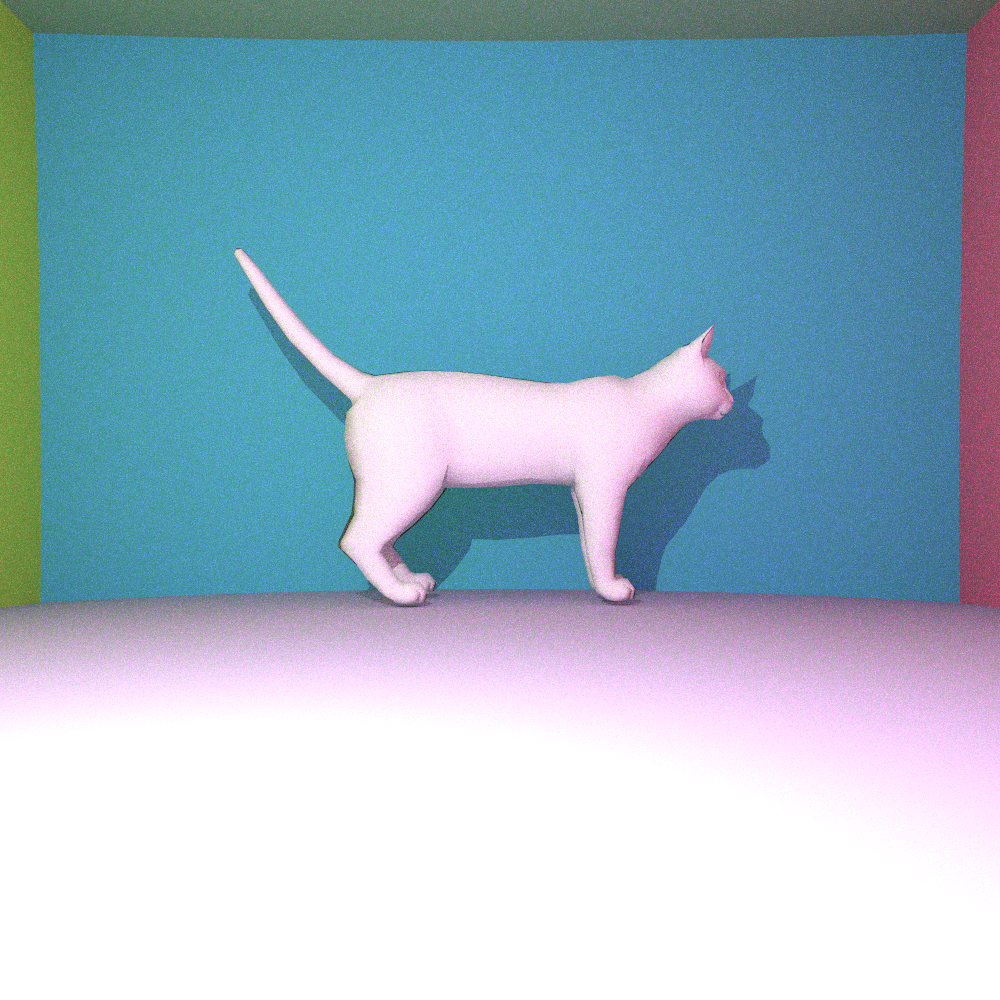
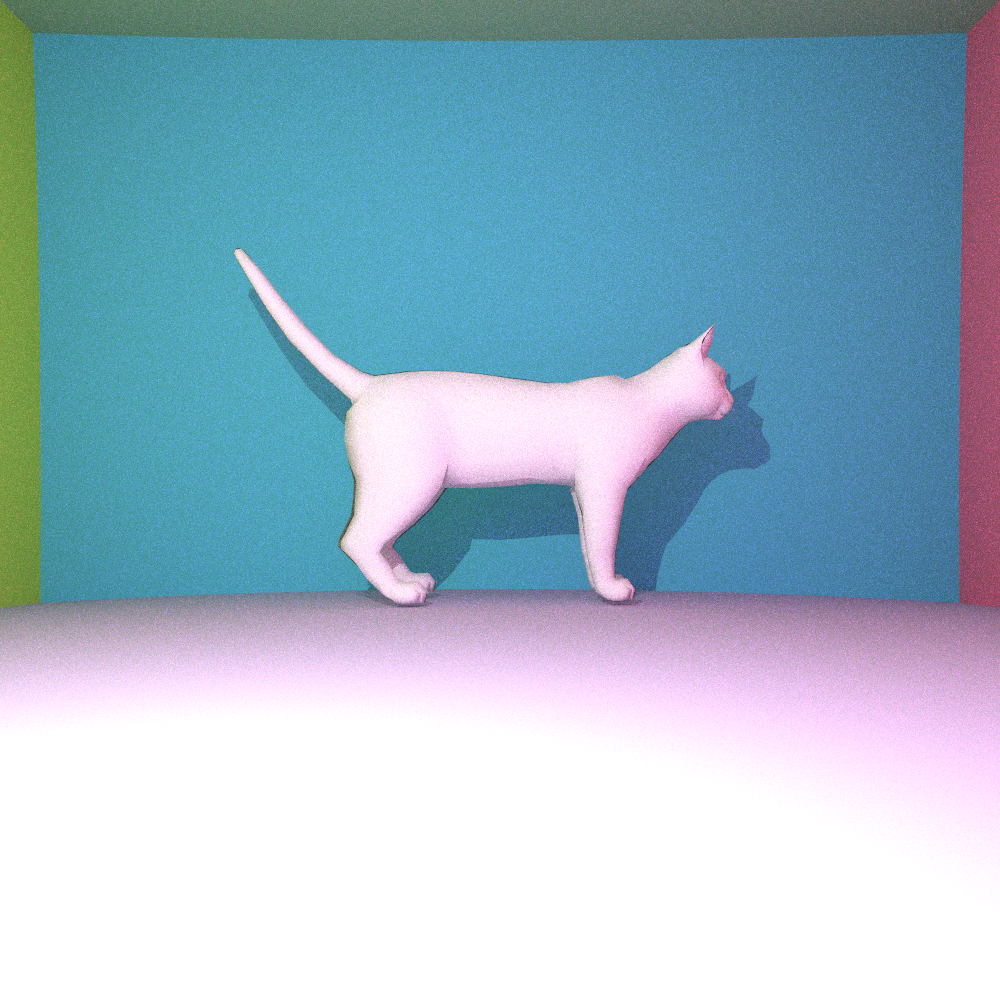
lab 4

Changed region(s): [[0.0, 0.0, 1.0, 0.744]]

diff --git a/main.cpp b/main.cpp
@@ -644,7 +644,7 @@ int main() {
 	scene.light_intensity = 3E7;
 	scene.fov = 60 * M_PI / 180.0;
 	scene.gamma = 2.2;
-	scene.max_light_bounce = 5;
+	scene.max_light_bounce = 20;
 
 	// Keep this commented if you want to see only the cat.
 	// scene.addObject(&center_sphere);
